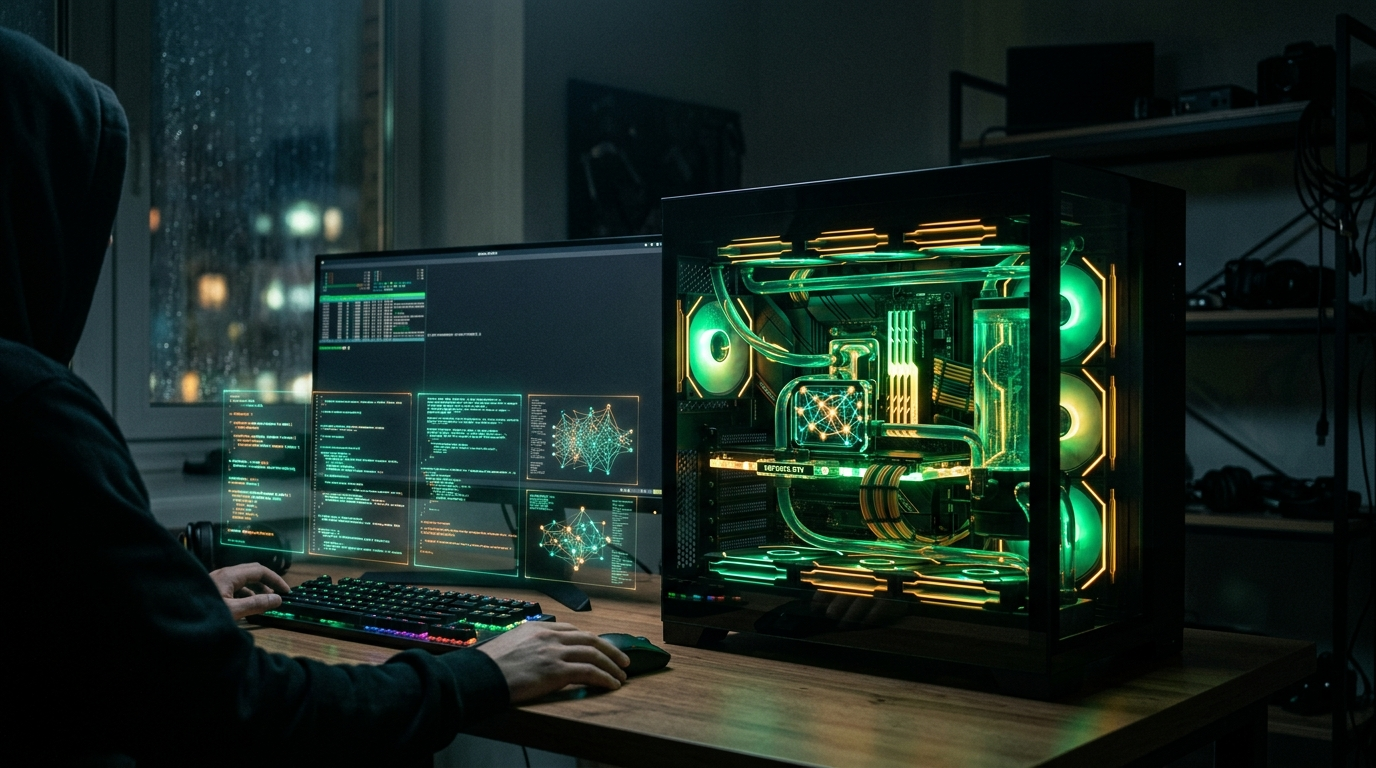
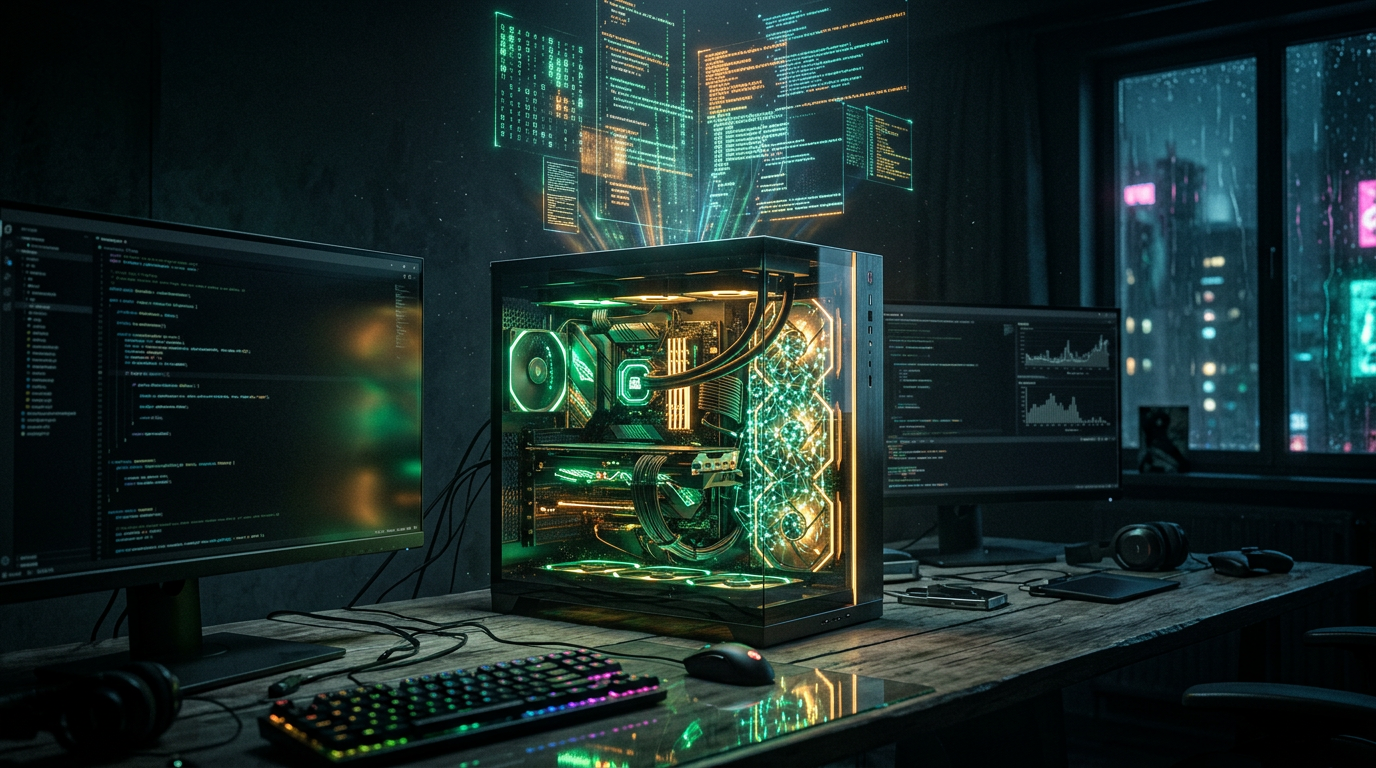
fix(wiki): use short display label for cross-refs + add avtonomnye-llm cover
Wiki-link alias previously rendered the FULL article title in prose
(e.g. 'VPN и криптовалюта в 2026: как собрать стек приватности, а не набор
маркетинговых обещаний'). Truncate at first ':' or '—' (max 60 chars)
to keep inline references readable.

Cover for avtonomnye-llm-lokalnyj-inference-2026 was missing —
frontmatter referenced /og/articles/avtonomnye-llm-lokalnyj-inference-2026.png
but file didn't exist. Generated via OpenRouter gemini-3.1-flash-image-preview.

diff --git a/src/lib/articles.ts b/src/lib/articles.ts
@@ -109,7 +109,18 @@ function parseArticleFile(filename: string, locale: Locale): Article | null {
 
     // Локальная регистрация алиасов wiki-link: текущая статья по своему slug
     // и связанные статьи становятся автодополняемыми.
-    registerWikiAliases({ [slug.toLowerCase()]: data.title as string });
+    // Display label берём КОРОТКИМ (до первого : или —), иначе в тексте
+    // вылазит полный заголовок вида "VPN и криптовалюта в 2026: как собрать
+    // стек приватности, а не набор маркетинговых обещаний" — нечитаемо.
+    const _fullTitle = (data.title as string) || slug;
+    const _shortTitle = (() => {
+      const sep = _fullTitle.search(/[:—]/);
+      const head = sep > 0 ? _fullTitle.slice(0, sep) : _fullTitle;
+      const trimmed = head.trim();
+      if (!trimmed) return slug;
+      return trimmed.length > 60 ? trimmed.slice(0, 57).trimEnd() + "…" : trimmed;
+    })();
+    registerWikiAliases({ [slug.toLowerCase()]: _shortTitle });
 
     return {
       slug,